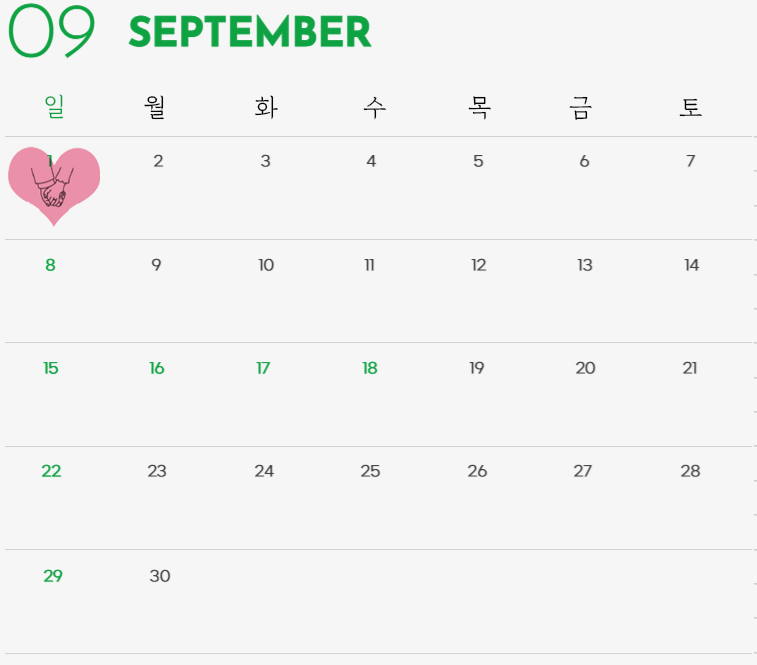
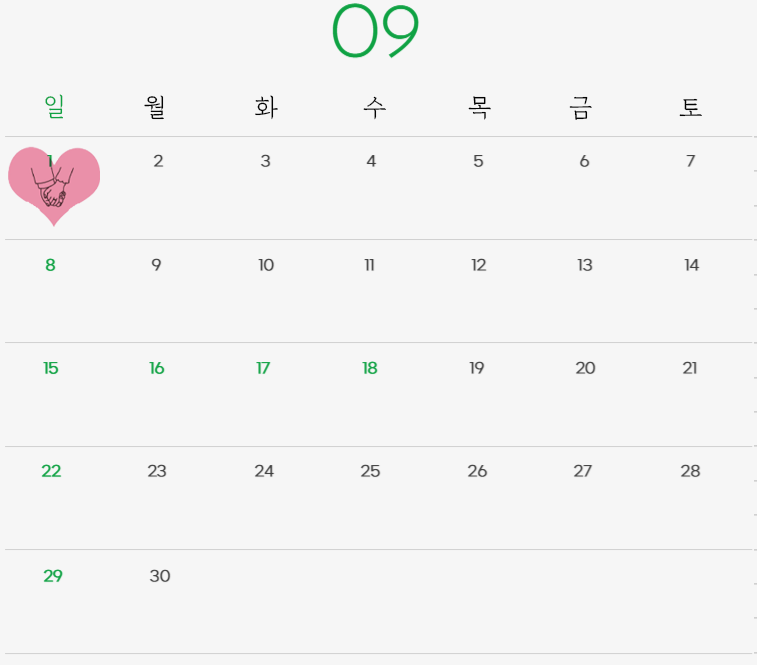
.

Changed region(s): [[0.1519, 0.0, 0.5773, 0.0902], [0.0, 0.0, 0.1215, 0.0902]]

diff --git a/index.htm b/index.htm
@@ -8,18 +8,11 @@
         tailwind.config = {
           theme: {
             screens: {
-                'tablet': '640px',
-                // => @media (min-width: 640px) { ... }
 
-                'laptop': '1024px',
-                // => @media (min-width: 1024px) { ... }
-
-                'desktop': '1280px',
-                // => @media (min-width: 1280px) { ... }
                 },
             extend: {
               colors: {
-                clifford: '#da373d',
+                clifford: '#9ec6f7',
               }
             }
           }
@@ -36,23 +29,37 @@
     <title>진욱 ❤ 지선</title>
     <link rel="stylesheet" href="./css/style.css">
 </head>
-<body><div class="my_bg sm:text-center" style="height : 100vh; overflow : hidden;">
-  <section class="scroll-section borderimg2" id="section2" style="height : 100vh;"> 
-    <div class="mx-auto"> 
-      
-        <p class="great-vibes-regular" style="font-size: 60px;  color: rgba(234, 240, 246, 0.8); margin-top: -80%; text-align: center; line-height: 120%;">We're <br />getting married </p>
-      <div class="top_main">
-        정진욱 ❤ 구지선
-        </div>
-        <div class="mx-auto top_sub" style="background-color: rgba(234, 240, 246, 0.3); padding: 20px; ">
-          2024. 09. 01 (일) 11:00 AM<br />
-          서울대학교 호암교수회관
-        </div>
-    </section>
-</div>
-<section class="scroll-section" id="section2" style="height : 45vh;"> 
+<body>
 
-<div class="sm:text-center section2">
+  <div class="container">
+    <div class="child">
+
+      <div class="my_bg sm:text-center" style="overflow : hidden;">
+        <section class="scroll-section borderimg2" id="section2" style="height : 100vh;"> 
+          <div class="mx-auto" style="margin: 0 auto;"> 
+            
+              <p class="great-vibes-regular" style="font-size: 60px;  color: rgba(234, 240, 246, 0.8); margin-top: -80%; text-align: center; line-height: 120%;">We're <br />getting married </p>
+            <div class="top_main">
+              정진욱 ❤ 구지선
+              </div>
+              <div class="mx-auto top_sub" style="background-color: rgba(116, 117, 118, 0.3); padding: 20px; border-radius: 21px; ">
+                2024. 09. 01 (일) 11:00 AM<br />
+                서울대학교 호암교수회관
+              </div>
+          </section>
+      </div>
+
+
+
+
+    </div>
+  </div>
+
+
+  
+<section class="scroll-section" id="section2" style="height : 55vh;"> 
+
+<div class="sm:text-center section2" style="background: linear-gradient(#2e2e2e 0%, #b0b0b0 100%); background-clip: text; -webkit-background-clip: text; color: transparent;">
 
            <p>그대가 밀어 올린 꽃줄기 끝에서<br />
             그대가 피는 것인데<br />
@@ -72,29 +79,38 @@
 
 </div>
 </section> 
-<div style="background-color:rgba(217, 217, 217, 0.532); padding-top: 50px; padding-bottom: 50px;">
-<div class="flower1" style="height : 12vh;""></div>
-<div class="sm:text-center heading_title" style="line-height: 180%;">
-  서로를 알아보고 함께 걸어가기로 약속한<br /> 
+<div style="background-color:rgba(217, 217, 217, 0.532); padding-top: 50px; padding-bottom: 100px;">
+  <section class="scroll-section" id="section7"> 
+
+<div class="sm:text-center heading_title" style="line-height: 200%; ">
+  <div class="flower1" style="height : 12vh;padding-bottom: 20px;""></div>
+  <span style="padding-top: 20px;">서로를 알아보고 함께 걸어가기로 약속한<br /> 
         저희 두 사람의 시작을 축복해주시면<br />
-         더할 나위 없이 감사하겠습니다.
+         더할 나위 없이 감사하겠습니다.</span>
 </div>
+</section>
 <br />
 
 <br />
+<section class="scroll-section" id="section6"> 
 <div class="sm:text-center" style="text-align:center; font-size: 13px; letter-spacing: 6px; color: rgba(159, 159, 159, 0.8);">
-  <span style="font-size: 20px; color: #000; font-family: Nanum Myeongjo; font-weight: 1000;">정염남·서정자</span> 의 장남 <span style="font-size: 20px; color: #000; font-family: Nanum Myeongjo; font-weight: 1000;">진욱</span><br />
+  <span style="font-size: 20px; color: #1a1717; font-family: Nanum Myeongjo; font-weight: 1000;">정염남·서정자</span> 의 장남 <span style="font-size: 20px; color: #000; font-family: Nanum Myeongjo; font-weight: 1000;">진욱</span><br />
   <span style="font-size: 20px; color: #000; font-family: Nanum Myeongjo; font-weight: 1000;">구태주·김정해</span> 의 장녀	<span style="font-size: 20px; color: #000; font-family: Nanum Myeongjo; font-weight: 1000;">지선</span>
   </div>
-
+</section>
 </div>
-  <div class="flower2" style="height : 12vh; margin-top: 100px;"></div>
+
   <div class="sm:text-center heading_title">
     
   </div><br />
-  <div class="calendar" style="height : 50vh; overflow : hidden; margin-top: 50px; margin-left: 20px;""></div>
-
-  <div style="background-color:rgba(217, 217, 217, 0.532); padding-top: 50px; padding-bottom: 50px;">
+  <section class="scroll-section" id="section5"> 
+  <div class="container">
+    <div class="child">
+  <div class="calendar" style="max-width: 640px; height : 60vh; overflow : hidden;"></div>
+  </div>
+  </div>
+</section>
+  <div style="background-color:rgba(255, 255, 255, 0.532); padding-top: 50px; padding-bottom: 50px;">
   <div class="flower2" style="height : 12vh;""></div>
 <div class="sm:text-center heading_title">
   오시는 길
@@ -105,8 +121,8 @@
 
   <!-- * 카카오맵 - 지도퍼가기 -->
   <!-- 1. 지도 노드 -->
-  <div id="daumRoughmapContainer1710316010775" class="mx-auto root_daum_roughmap root_daum_roughmap_landing" style="width:100%; padding-top: 20px;"></div>
-
+  <div style="background-color: #fff; border-radius: 20px;"><div id="daumRoughmapContainer1710316010775" class="mx-auto root_daum_roughmap root_daum_roughmap_landing" style="width:100%; padding-top: 20px; border-radius: 20px;"></div>
+</div>
   <!--
     2. 설치 스크립트
     * 지도 퍼가기 서비스를 2개 이상 넣을 경우, 설치 스크립트는 하나만 삽입합니다.
@@ -145,7 +161,13 @@
 </div>
 </div>
 
-<div> FAQ</div>
+<div> FAQ
+1. 언제 만났나요?
+2. 무엇이 서로 마음에 들었나요?
+3. 
+
+</div>
+
 <script src="./js/script.js"></script>
 </body>
 </html>

diff --git a/css/style.css b/css/style.css
@@ -24,11 +24,19 @@ body, html {
 }
  
 
+.container {
+  font-family: arial;
+  font-size: 24px;
+  width: 100%;
+  /* 자식 요소(.child)를 중앙 정렬하기 */
+  display: flex;
+  justify-content: center;
+}
 
-.container { 
-    color: #000000; 
-    text-align: center; 
-} 
+.child {
+  width: 640px;
+  background-color: #9ec6f7;
+}
 
 .nanum-myeongjo-regular {
     font-family: "Nanum Myeongjo", serif;
